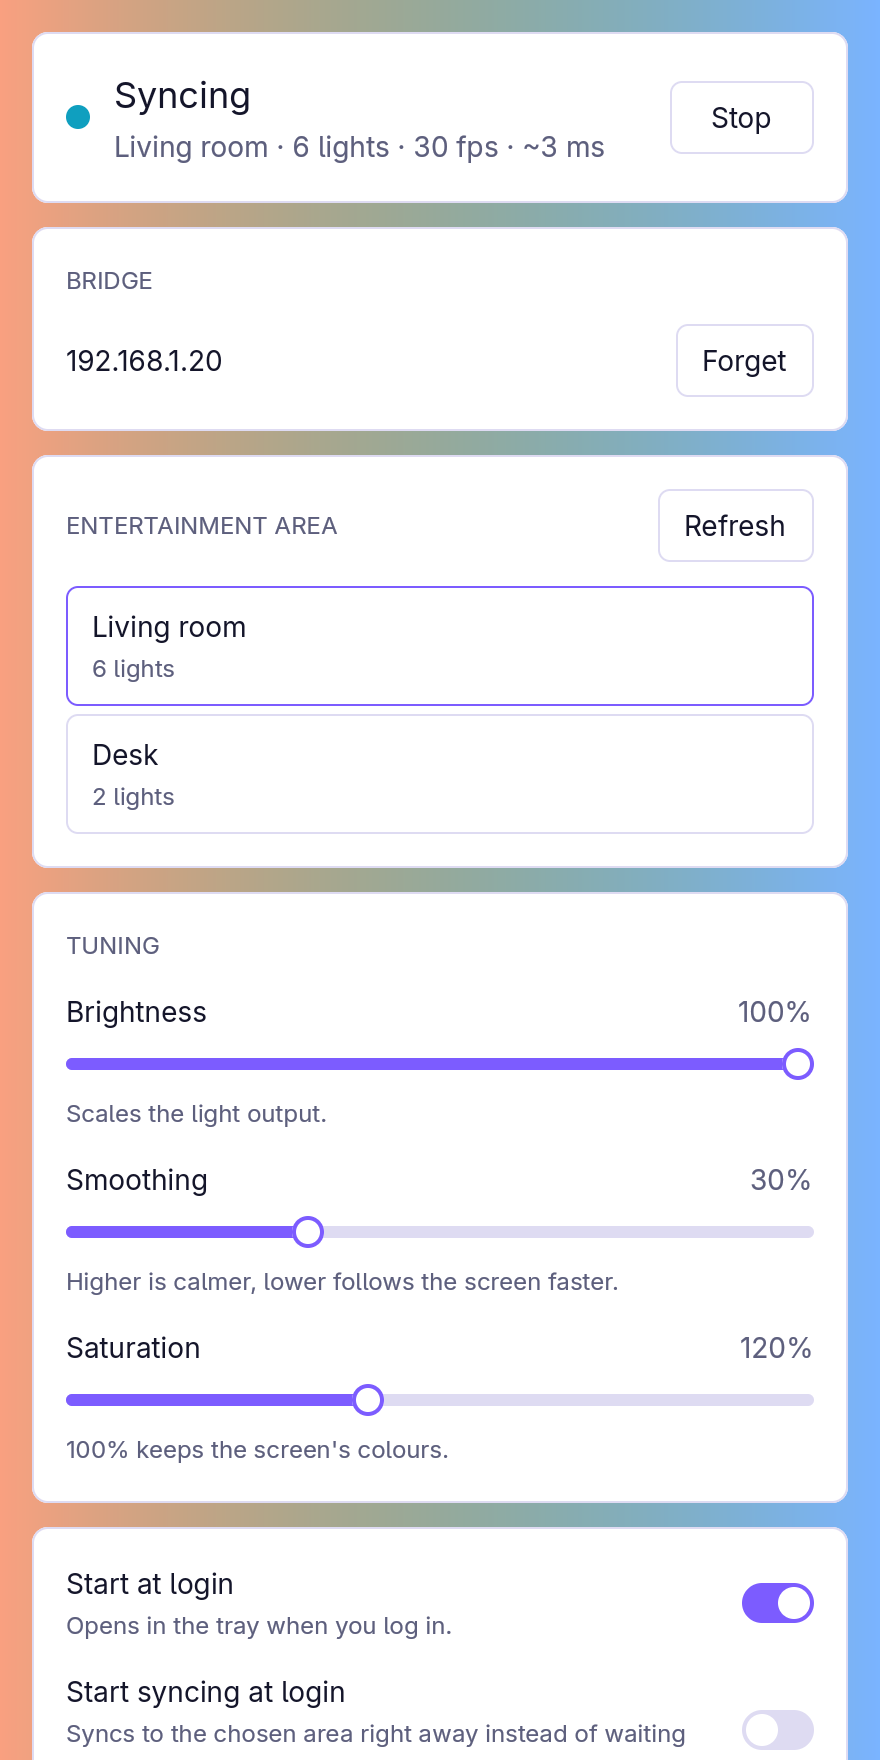
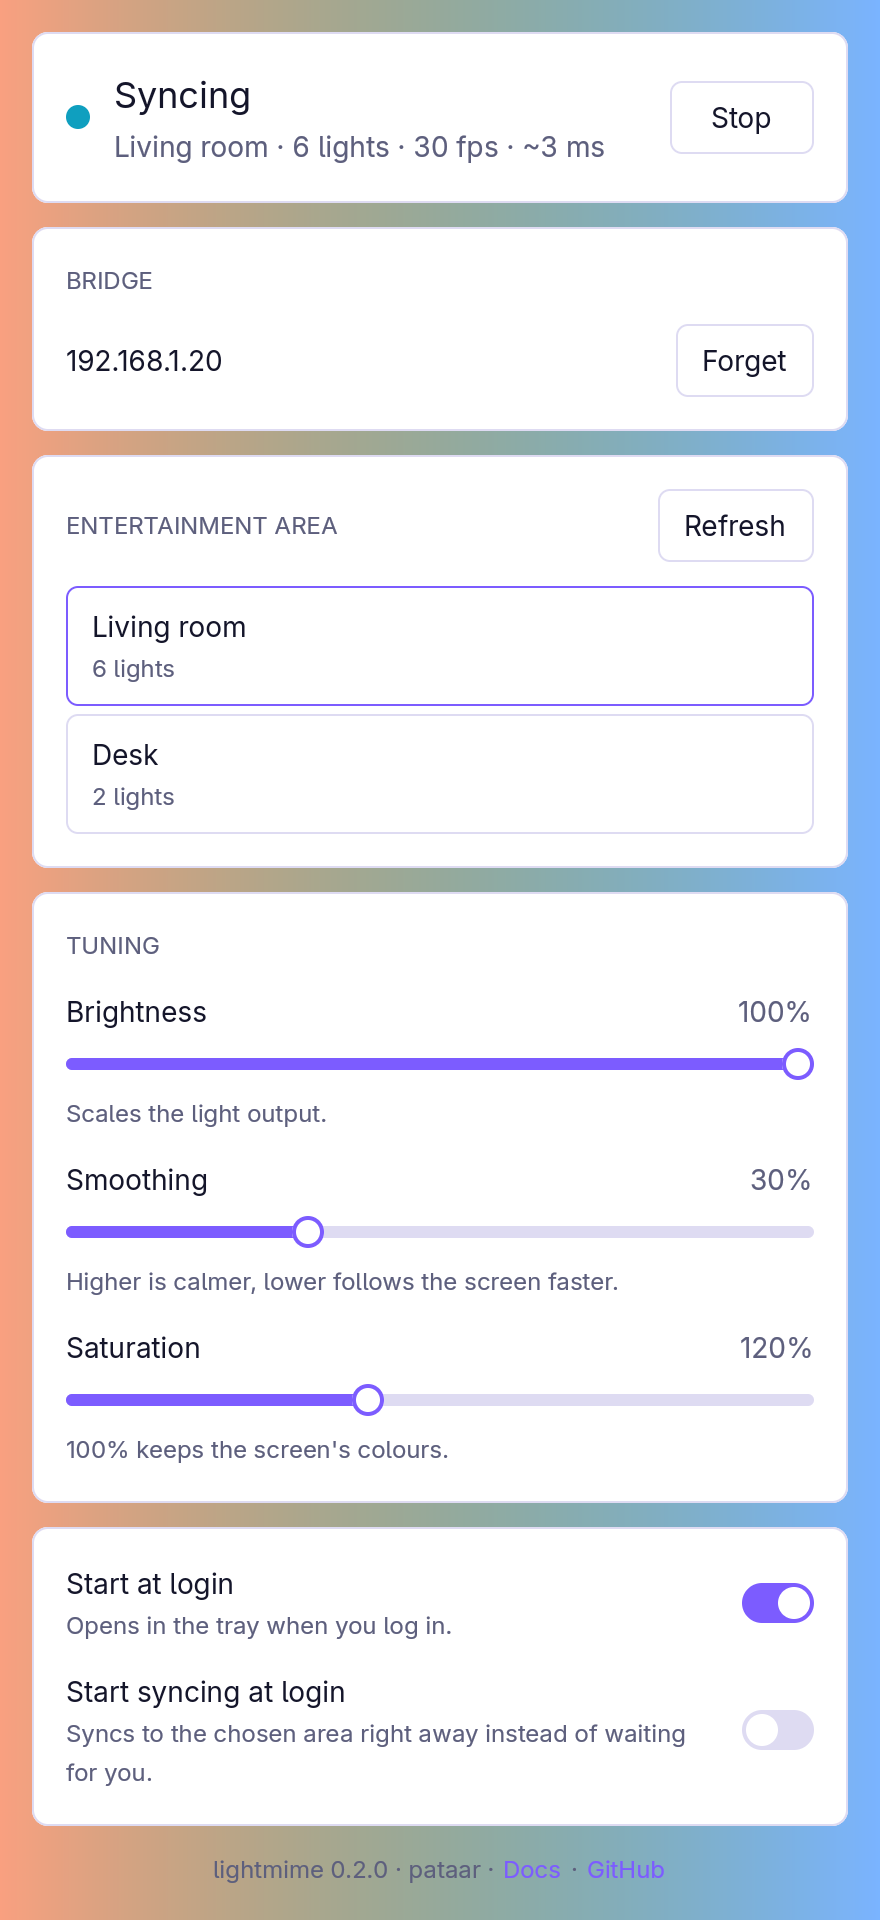
docs: render the whole window in the screenshots and show them sharp (#21)
The 880 px tall render cut off the last setting and the footer; 960 px fits
the window. The landing page shows the 2x image at exactly 440 px so it maps
to whole device pixels instead of being resampled by 2.3x.

Changed region(s): [[0.0307, 0.0312, 0.9818, 1.0]]

diff --git a/docs/site/index.html b/docs/site/index.html
@@ -133,7 +133,8 @@ header.top nav a:hover { color: var(--accent); }
 }
 .button.primary { background: #7c5cff; border-color: #7c5cff; color: #fff; }
 .button:hover { filter: brightness(1.08); }
-.shot { position: relative; justify-self: center; max-width: 380px; }
+/* 440 px is the window's own width: the 2× render then maps to whole device pixels and stays sharp. */
+.shot { position: relative; justify-self: center; max-width: 440px; }
 /* The glow behind the window is the point of the app: the screen's colours on the wall. */
 .shot::before {
     content: "";
@@ -350,7 +351,7 @@ footer a { color: var(--muted); }
             <div class="shot">
                 <picture>
                     <source media="(prefers-color-scheme: dark)" srcset="/docs/images/window-dark.png">
-                    <img src="/docs/images/window-light.png" width="440" height="880" fetchpriority="high"
+                    <img src="/docs/images/window-light.png" width="440" height="960" fetchpriority="high"
                         alt="The lightmime window while syncing to a Hue entertainment area with six lights">
                 </picture>
             </div>

diff --git a/crates/lightmime-gui/src/screenshots.rs b/crates/lightmime-gui/src/screenshots.rs
@@ -58,7 +58,7 @@ fn screenshots() {
         cx.update(|cx| cx.set_global(ForceAppearance(appearance)));
         let shared = shared.clone();
         let window = cx
-            .open_window(size(px(440.), px(880.)), |window, cx| {
+            .open_window(size(px(440.), px(960.)), |window, cx| {
                 cx.new(|cx| {
                     let mut view = MainView::new(shared, window, cx);
                     view.show_demo();
